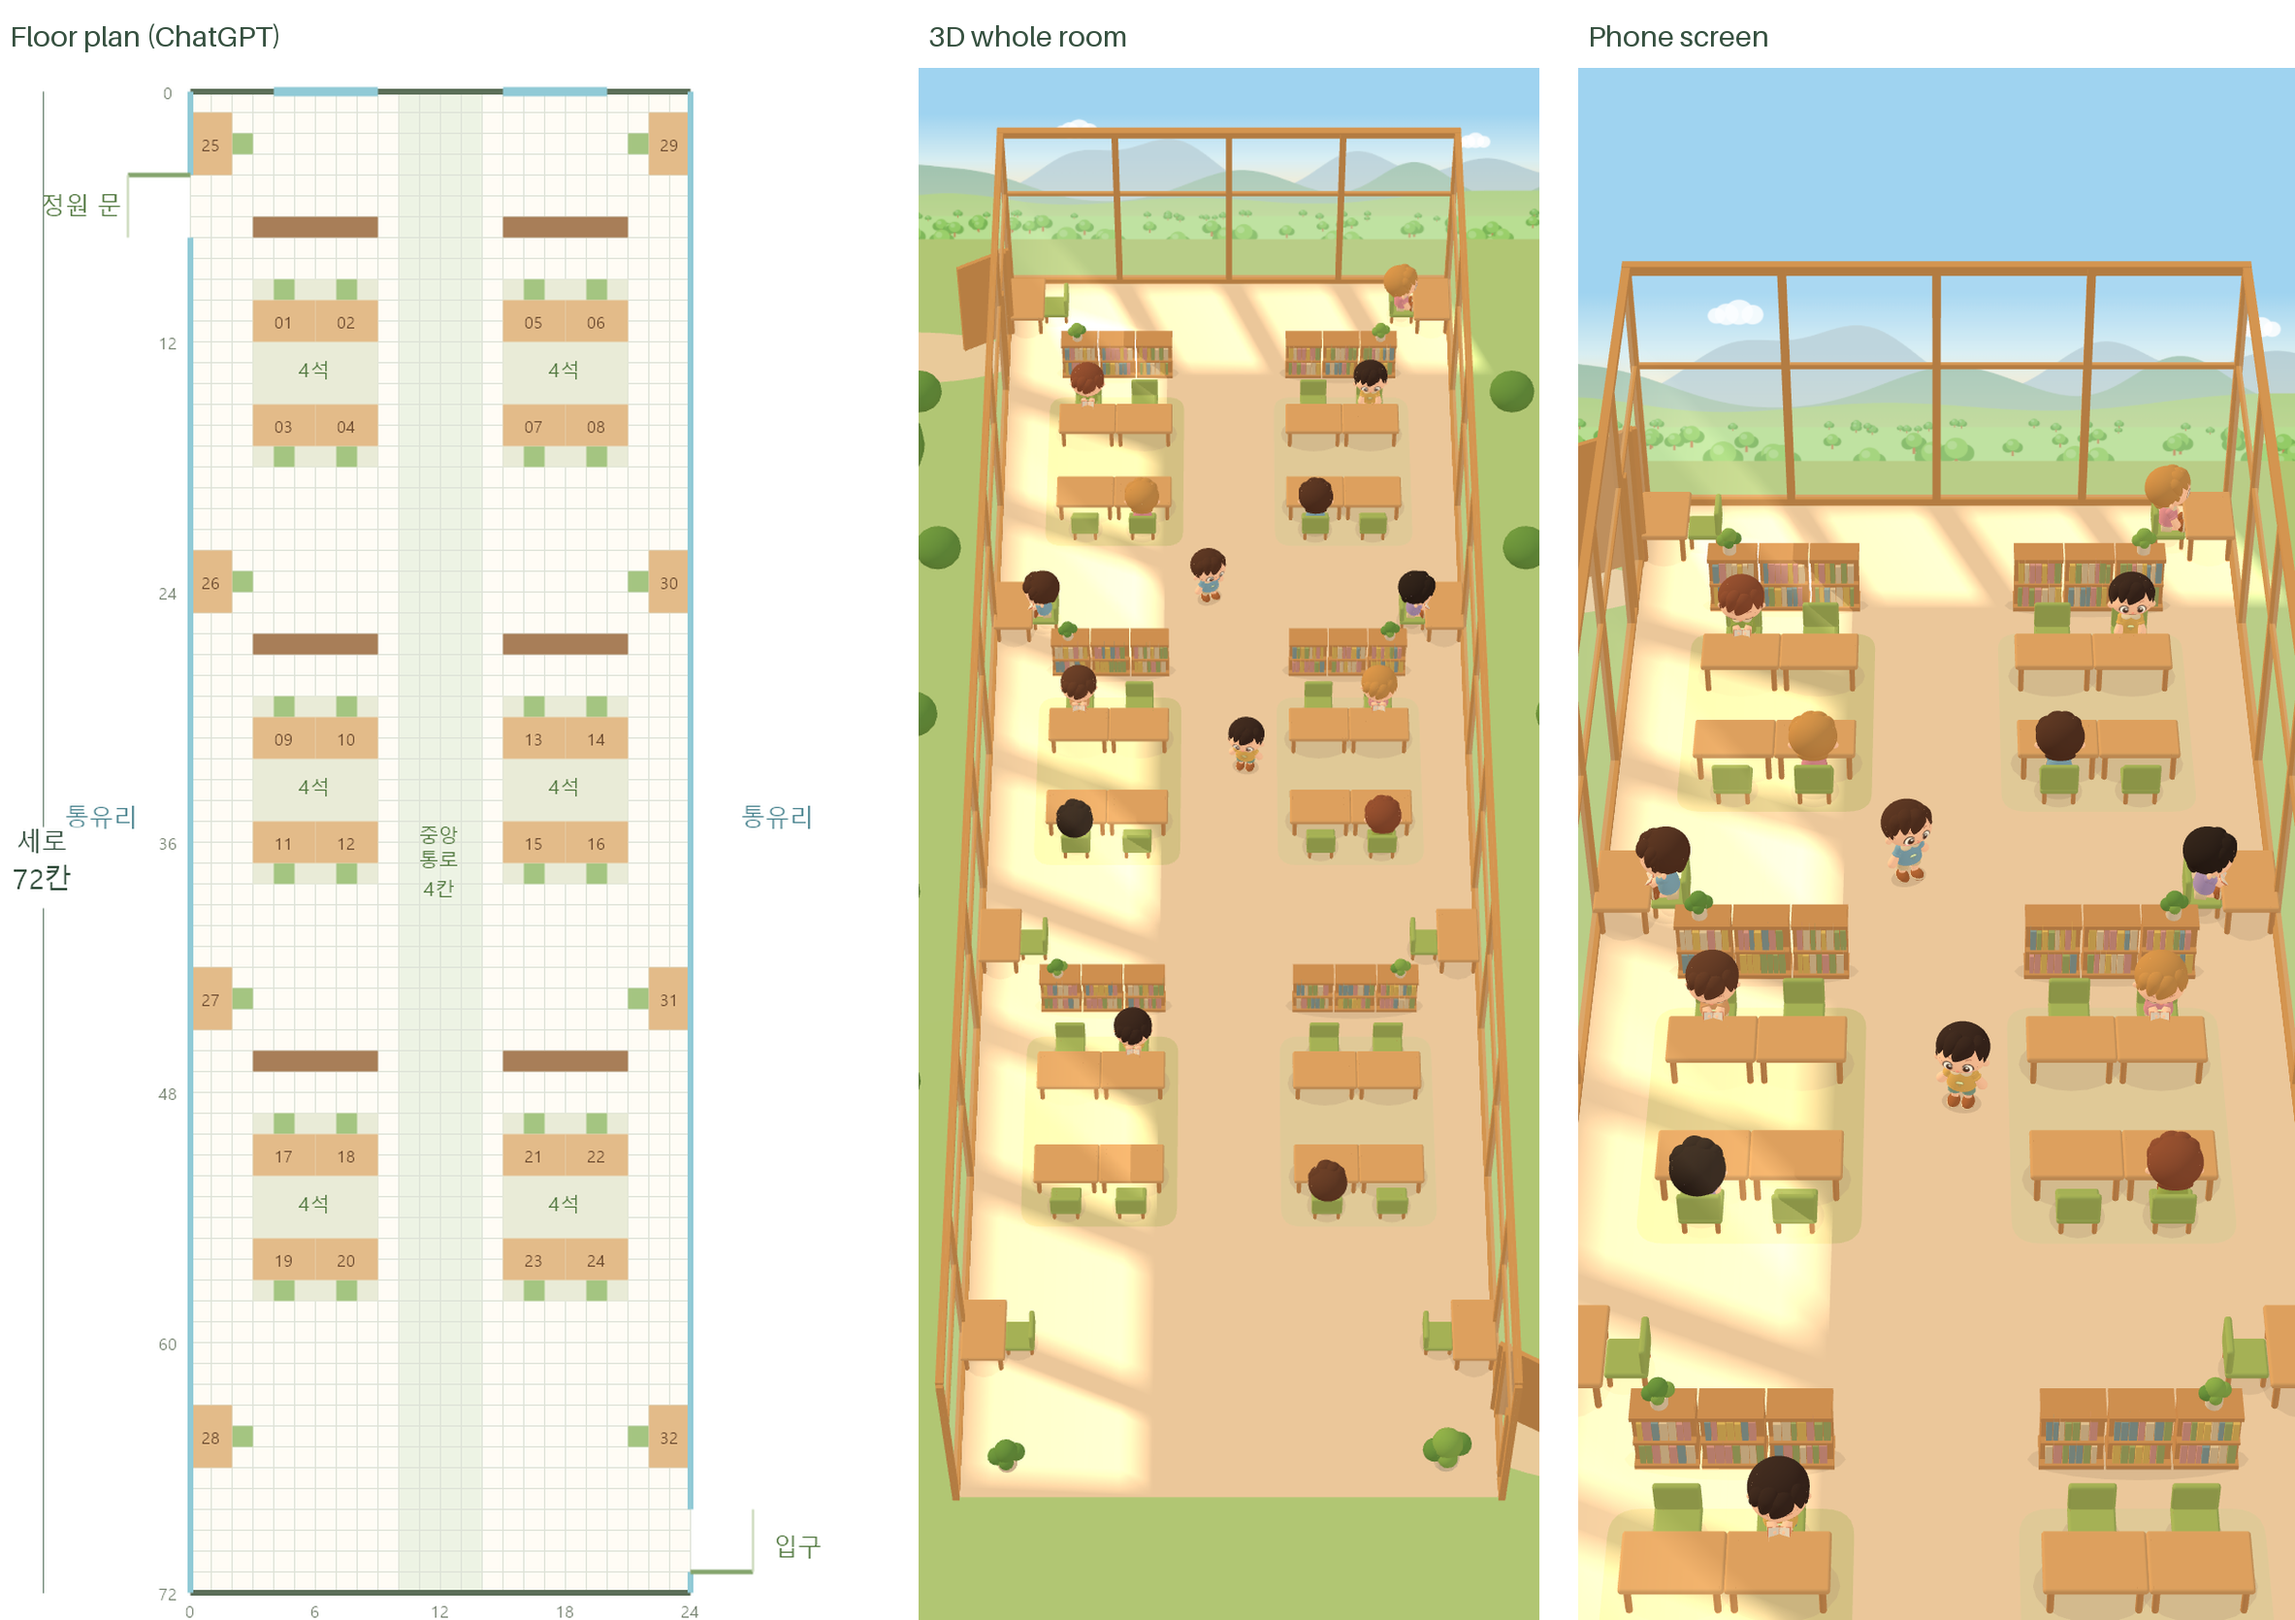
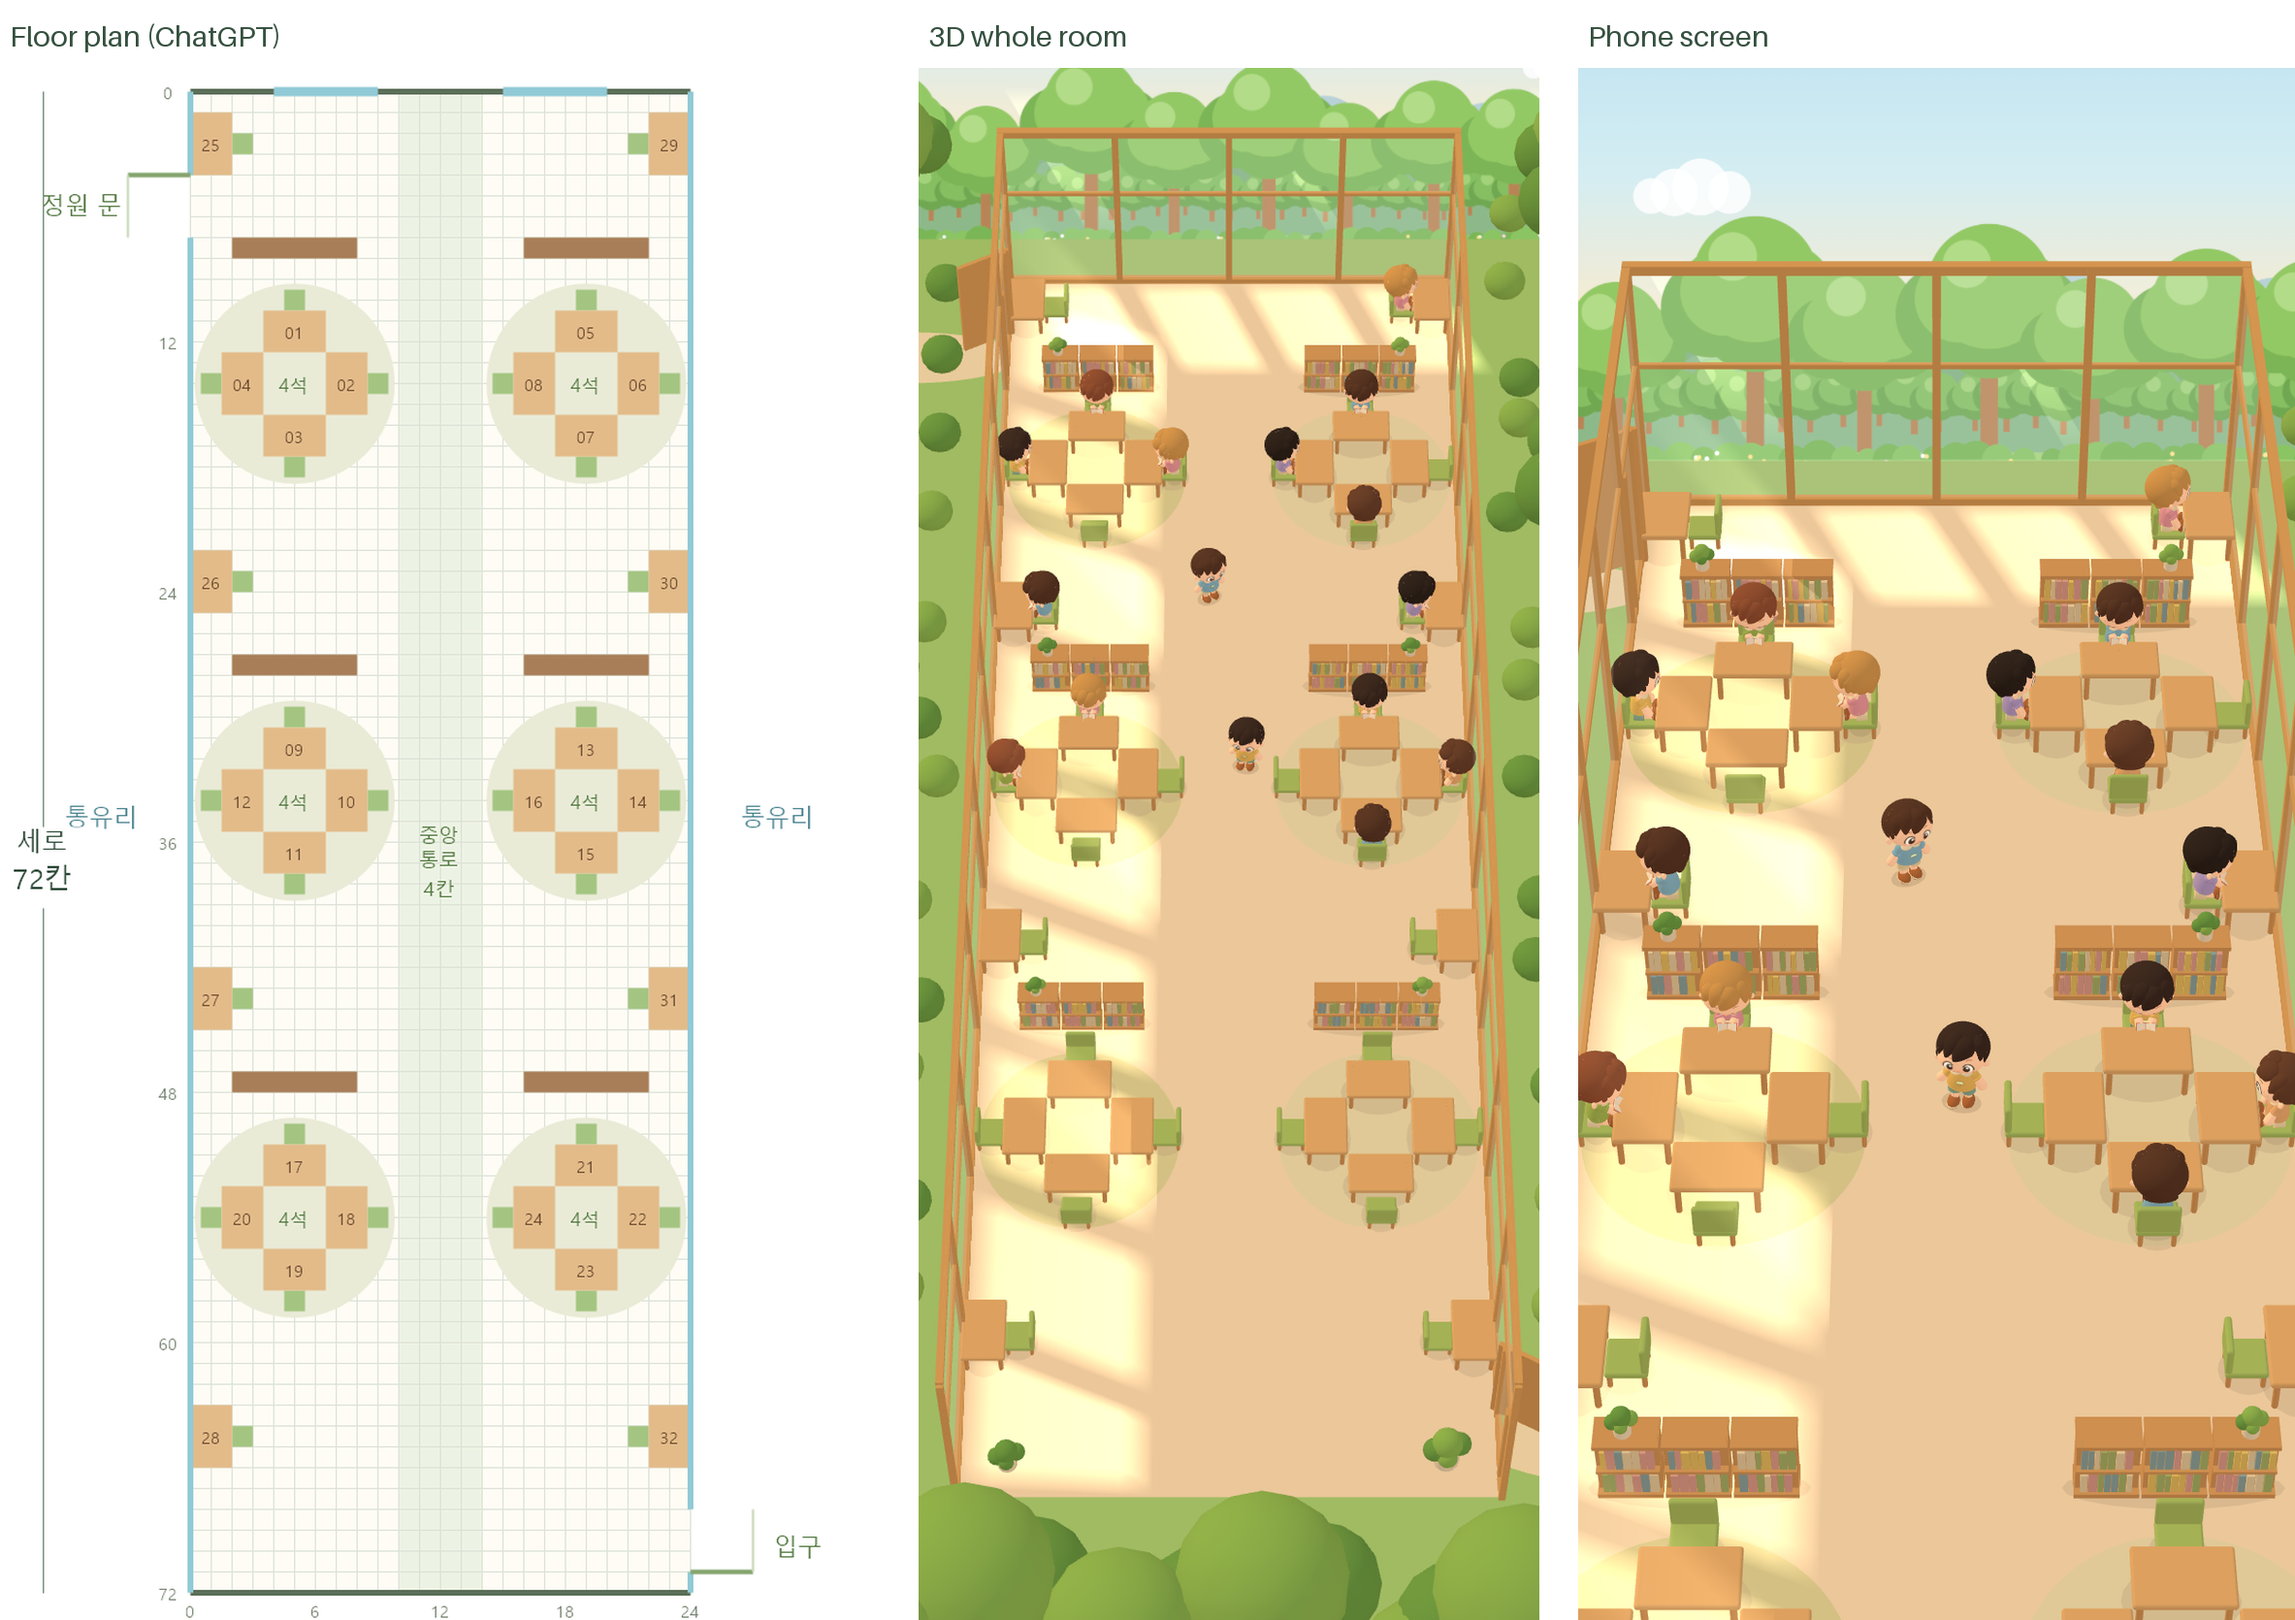
3D 도서관 시제품: 새 배치도대로 둥근 카펫 위 사방에서 마주 앉는 4인 모둠으로 변경
Claude-Session: https://claude.ai/code/session_0159aZotMhLJwovxiTTw4ndE

diff --git a/prototype/3d-library/library.js b/prototype/3d-library/library.js
@@ -15,27 +15,22 @@ export const PALETTE = {
 const gx = (c) => (c - GRID.w / 2) * CELL, gz = (c) => (c - GRID.d / 2) * CELL;
 const deg = THREE.MathUtils.degToRad;
 
-// 세로형 평면도에서 읽은 좌석 배치 (칸 단위). 4인 모둠 6곳 + 창가 8석 = 32석
-// 모둠: 위 책상 2개(의자는 위쪽, 아래를 봄) + 아래 책상 2개(의자는 아래쪽, 위를 봄), 가운데는 빈 공간
-const CLUSTER_COLS = [[4.5, 7.5], [16.5, 19.5]];       // 왼쪽 모둠, 오른쪽 모둠의 책상 가운데 x
-const CLUSTER_ROWS = [0, 20, 40];                        // 모둠 세로 간격 20칸
+// 세로형 평면도에서 읽은 좌석 배치 (칸 단위). 사방에서 마주 앉는 4인 모둠 6곳 + 창가 8석 = 32석
+// 모둠 가운데에서 책상은 2.5칸, 의자는 4칸 떨어져 있고, 모두 가운데를 보고 앉음
+const CLUSTER_CENTERS = [[5, 14], [19, 14], [5, 34], [19, 34], [5, 54], [19, 54]];
 const WINDOW_ROWS = [2.5, 23.5, 43.5, 64.5];
-export const SHELVES = [];                               // 모둠 뒤 낮은 책장 [x0, x1, y]
-export const RUGS = [];                                  // 모둠 카펫 [x0, x1, y0, y1]
+export const SHELVES = CLUSTER_CENTERS.map(([cx, cy]) => [cx - 3, cx + 3, cy - 6.5]);   // 모둠 뒤 낮은 책장 [x0, x1, y]
+export const RUGS = CLUSTER_CENTERS.map(([cx, cy]) => [cx, cy, 4.7]);                    // 둥근 카펫 [x, y, 반지름]
 
 export function seatLayout() {
   const seats = [];
   let n = 1;
-  for (const off of CLUSTER_ROWS) {
-    for (const cols of CLUSTER_COLS) {
-      for (const [deskY, chairY, fy] of [[11, 9.5, 1], [16, 17.5, -1]]) {
-        for (const cx of cols) seats.push({ id: 0, kind: 'cluster', chair: [cx, chairY + off], desk: [cx, deskY + off], face: [0, fy], vertical: false, col: cols, off });
-      }
+  // 평면도 번호 순서: 위 → 오른쪽 → 아래 → 왼쪽
+  for (const [cx, cy] of CLUSTER_CENTERS) {
+    for (const [dx, dy] of [[0, -1], [1, 0], [0, 1], [-1, 0]]) {
+      seats.push({ id: n++, kind: 'cluster', chair: [cx + dx * 4, cy + dy * 4], desk: [cx + dx * 2.5, cy + dy * 2.5], face: [-dx, -dy], vertical: dx !== 0 });
     }
   }
-  // 평면도 번호 순서: 왼쪽 모둠 → 오른쪽 모둠, 위에서 아래
-  seats.sort((p, q) => p.off - q.off || p.col[0] - q.col[0] || p.chair[1] - q.chair[1] || p.chair[0] - q.chair[0]);
-  seats.forEach((s) => { s.id = n++; });
   for (const cy of WINDOW_ROWS) seats.push({ id: n++, kind: 'window', chair: [2.5, cy], desk: [1, cy], face: [-1, 0], vertical: true });
   for (const cy of WINDOW_ROWS) seats.push({ id: n++, kind: 'window', chair: [21.5, cy], desk: [23, cy], face: [1, 0], vertical: true });
   return seats.map((s) => ({
@@ -45,7 +40,6 @@ export function seatLayout() {
     deskX: gx(s.desk[0]), deskZ: gz(s.desk[1]),
   }));
 }
-for (const off of CLUSTER_ROWS) for (const [x0, x1] of [[3, 9], [15, 21]]) { SHELVES.push([x0, x1, 6.5 + off]); RUGS.push([x0 - 0.6, x1 + 0.6, 8.4 + off, 18.6 + off]); }
 
 // 같은 색 도형을 모아 한 번에 그리기 위한 수집기
 class Batch {
@@ -212,13 +206,9 @@ export function buildLibrary(scene) {
     for (const [dx, dy, dz, r] of [[0, 0.24, 0, 0.1], [-0.08, 0.19, 0.02, 0.075], [0.08, 0.19, -0.02, 0.075], [0, 0.18, 0.07, 0.065]]) solid.add(rnd() > 0.5 ? P.leaf : P.leafDark, ball, x + dx * k, y + dy * k, z + dz * k, 0, r * k, r * k, r * k);
   };
 
-  // 모둠마다: 사각 카펫(모서리 둥글게) + 뒤쪽 낮은 책장 + 화분
-  const rugShape = (w, d, r) => { const sh = new THREE.Shape(); const x = -w / 2, y = -d / 2;
-    sh.moveTo(x + r, y); sh.lineTo(x + w - r, y); sh.quadraticCurveTo(x + w, y, x + w, y + r); sh.lineTo(x + w, y + d - r); sh.quadraticCurveTo(x + w, y + d, x + w - r, y + d);
-    sh.lineTo(x + r, y + d); sh.quadraticCurveTo(x, y + d, x, y + d - r); sh.lineTo(x, y + r); sh.quadraticCurveTo(x, y, x + r, y); return new THREE.ShapeGeometry(sh, 6); };
-  RUGS.forEach(([x0, x1, y0, y1], i) => {
-    const w = (x1 - x0) * CELL, d = (y1 - y0) * CELL;
-    flat.add(i % 2 ? '#E9E2BE' : P.rug, rugShape(w, d, 0.28), gx((x0 + x1) / 2), 0.006, gz((y0 + y1) / 2), 0, 1, 1, 1, -Math.PI / 2);
+  // 모둠마다: 둥근 카펫 + 뒤쪽 낮은 책장 + 화분
+  RUGS.forEach(([x, y, r], i) => {
+    flat.add(i % 2 ? '#E9E2BE' : P.rug, new THREE.CircleGeometry(1, 56), gx(x), 0.006, gz(y), 0, r * CELL, r * CELL, 1, -Math.PI / 2);
   });
   SHELVES.forEach(([x0, x1, y], i) => {
     const n = 3, span = (x1 - x0) * CELL, step = span / n;

diff --git a/prototype/3d-library/lib-demo.js b/prototype/3d-library/lib-demo.js
@@ -19,7 +19,7 @@ const sitAt = (id, look, state = 'read') => {
   av.root.position.set(s.x - Math.sin(s.rotY) * 0.04, SIT_Y, s.z - Math.cos(s.rotY) * 0.04);
   av.root.rotation.y = s.rotY; av.setState(state); av.lookUp = 0.3; scene.add(av.root); avatars.push(av);
 };
-sitAt(1, looks[0]); sitAt(4, looks[2]); sitAt(6, looks[1], 'sit'); sitAt(7, looks[3]); sitAt(9, looks[4]); sitAt(11, looks[5], 'sit'); sitAt(14, looks[2]); sitAt(16, looks[0]); sitAt(18, looks[1]); sitAt(23, looks[4], 'sit'); sitAt(26, looks[3]); sitAt(30, looks[5]); sitAt(29, looks[2], 'sit');
+sitAt(1, looks[0]); sitAt(2, looks[2]); sitAt(4, looks[1], 'sit'); sitAt(5, looks[3]); sitAt(7, looks[4]); sitAt(8, looks[5], 'sit'); sitAt(9, looks[2]); sitAt(12, looks[0]); sitAt(13, looks[1]); sitAt(14, looks[4], 'sit'); sitAt(15, looks[3]); sitAt(26, looks[3]); sitAt(30, looks[5]); sitAt(29, looks[2], 'sit');
 const walker = (x, z, ry, look, state = 'walk') => { const av = new Avatar(look); av.root.position.set(x, 0, z); av.root.rotation.y = ry; av.setState(state); av.lookUp = 0.36; scene.add(av.root); avatars.push(av); };
 walker(-0.3, -4.2, 0.5, looks[3]);
 walker(0.25, -1.0, -0.2, looks[1]);
